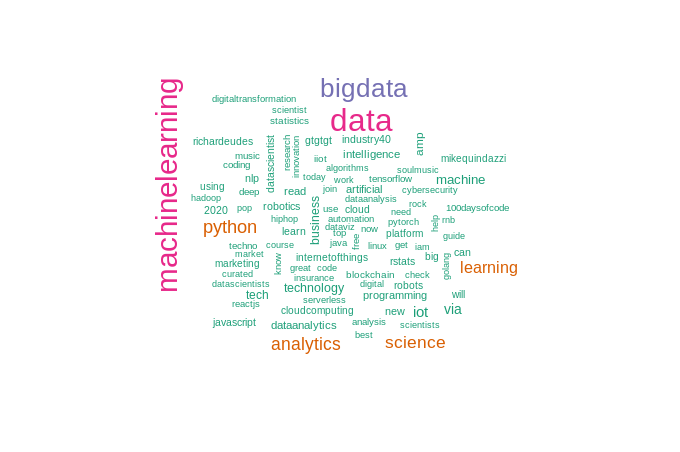
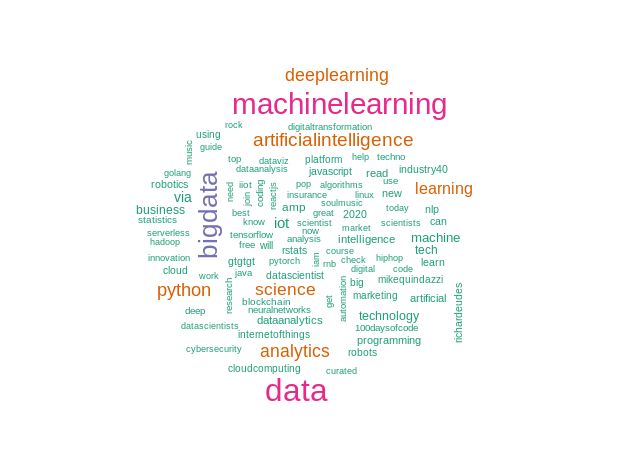
update

Changed region(s): [[0.2145, 0.1549, 0.7661, 0.8673]]

diff --git a/docs/index.html b/docs/index.html
@@ -237,8 +237,8 @@ E após, seguirmos, todas as etapas, chegamos a última, e se tudo estiver ocorr
 <a class="sourceLine" id="cb3-6" data-line-number="6">  <span class="dt">lang =</span> <span class="st">&quot;en&quot;</span></a>
 <a class="sourceLine" id="cb3-7" data-line-number="7">)</a></code></pre></div>
 <p>E essas são as primeiras linhas da busca:</p>
-<div id="htmlwidget-85cf5323f5ff75177d7d" style="width:100%;height:auto;" class="datatables html-widget"></div>
-<script type="application/json" data-for="htmlwidget-85cf5323f5ff75177d7d">{"x":{"filter":"none","extensions":["Scroller"],"data":[["572383090","572383090","1054321970442059776","1054321970442059776","1054321970442059776","1054321970442059776"],["1234189787126386688","1233298568875610112","1231989167279812611","1234014514703667200","1230991843585929216","1232862925955702785"],["2020-03-01T18:52:30Z","2020-02-28T07:51:07Z","2020-02-24T17:08:01Z","2020-03-01T07:16:01Z","2020-02-21T23:05:00Z","2020-02-27T03:00:01Z"],["norcalbiostat","norcalbiostat","techsocialnet","techsocialnet","techsocialnet","techsocialnet"],["The #DataScience initiative is participating in #GivingDay for #ASADataFest20 https://t.co/P76JRlYWb0","So thankful to receive a conference grant from @RConsortium to help put on #ASADataFest20 @ChicoState !! Food! Prizes! Swag!\nThink you can help feed &amp; caffeinate students too? Giving day is next Wednesday -https://t.co/PXAv1wdhH9 Every $5-10 helps! #DataScience","Why to always take a questioning approach as an analyst...\n\nData Analytics: Common Pitfalls of Not Asking Enough Questions and What Questions You Should be Asking | techsocialnetwork \n\nhttps://t.co/unqyg43YHt\n\n  #analytics #technology #data #datascience #bigdata #deeplearning https://t.co/fmFXiDdT8C","Why to always take a questioning approach as an analyst...\n\nData Analytics: Common Pitfalls of Not Asking Enough Questions and What Questions You Should be Asking | techsocialnetwork \n\nhttps://t.co/unqyg43YHt\n\n  #analytics #technology #data #datascience #bigdata #deeplearning https://t.co/BcYTuCNHmx","Is Data the New Oil? | techsocialnetwork \n\nCheck out our latest article and please share with your friends.\n\nhttps://t.co/YDOokF5Xds\n\n#data #bigdata #programming #technology #ai #automation #datascience #tech #machinelearning #artificialintelligence #coding","10 Ways AI And Machine Learning Are Improving Endpoint Security | techsocialnetwork - read more,,,,,,,,,\n\nhttps://t.co/cOaL6ytcG2\n\n #coding #machinelearning #computerscience #programming #developer #coder #python #programmer #technology #artificialintelligence #datascience"],["Twitter for Android","Twitter Web App","eClincher","eClincher","eClincher","eClincher"],[77,265,276,276,257,273],[null,null,null,null,null,null],[null,null,null,null,null,null],[null,null,null,null,null,null],[true,false,false,false,false,false],[false,false,false,false,false,false],[0,1,3,0,5,1],[0,0,1,3,10,1],[null,null,null,null,null,null],[null,null,null,null,null,null],[["DataScience","GivingDay","ASADataFest20"],["ASADataFest20","DataScience"],["analytics","technology","data","datascience","bigdata","deeplearning"],["analytics","technology","data","datascience","bigdata","deeplearning"],["data","bigdata","programming","technology","ai","automation","datascience","tech","machinelearning","artificialintelligence","coding"],["coding","machinelearning","computerscience","programming","developer","coder","python","programmer","technology","artificialintelligence","datascience"]],[null,null,null,null,null,null],["twitter.com/ChicoState/sta…","app.mobilecause.com/vf/chicodatafe…","techsocialnetwork.co.uk/2019/11/20/dat…","techsocialnetwork.co.uk/2019/11/20/dat…","techsocialnetwork.co.uk/2019/09/01/is-…","techsocialnetwork.co.uk/2019/10/05/10-…"],["https://t.co/P76JRlYWb0","https://t.co/PXAv1wdhH9","https://t.co/unqyg43YHt","https://t.co/unqyg43YHt","https://t.co/YDOokF5Xds","https://t.co/cOaL6ytcG2"],["https://twitter.com/ChicoState/status/1234183526964244480","https://app.mobilecause.com/vf/chicodatafest","https://techsocialnetwork.co.uk/2019/11/20/data-analytics-common-pitfalls-of-not-asking-enough-questions-and-what-questions-you-should-be-asking/","https://techsocialnetwork.co.uk/2019/11/20/data-analytics-common-pitfalls-of-not-asking-enough-questions-and-what-questions-you-should-be-asking/","https://techsocialnetwork.co.uk/2019/09/01/is-data-the-new-oil/","https://techsocialnetwork.co.uk/2019/10/05/10-ways-ai-and-machine-learning-are-improving-endpoint-security/"],[null,null,"http://pbs.twimg.com/media/ERjnnmQW4AYEQ87.jpg","http://pbs.twimg.com/media/ESAZqVSXkAEce0Z.jpg",null,null],[null,null,"https://t.co/fmFXiDdT8C","https://t.co/BcYTuCNHmx",null,null],[null,null,"https://twitter.com/techsocialnet/status/1231989167279812611/photo/1","https://twitter.com/techsocialnet/status/1234014514703667200/photo/1",null,null],[null,null,"photo","photo",null,null],[null,null,"http://pbs.twimg.com/media/ERjnnmQW4AYEQ87.jpg","http://pbs.twimg.com/media/ESAZqVSXkAEce0Z.jpg",null,null],[null,null,"https://t.co/fmFXiDdT8C","https://t.co/BcYTuCNHmx",null,null],[null,null,"https://twitter.com/techsocialnet/status/1231989167279812611/photo/1","https://twitter.com/techsocialnet/status/1234014514703667200/photo/1",null,null],[null,null,null,null,null,null],[null,["3318844765","17068492"],null,null,null,null],[null,["RConsortium","ChicoState"],null,null,null,null],["en","en","en","en","en","en"],["1234183526964244480",null,null,null,null,null],["We need your help on #ChicoStateGivingDay this Wednesday! Just a few dollars goes a long way. Show us how #CatsGiveBack on March 4! https://t.co/0jLyUou9B7 https://t.co/jZDT0Guwtu",null,null,null,null,null],["2020-03-01T18:27:37Z",null,null,null,null,null],["Sprout Social",null,null,null,null,null],[1,null,null,null,null,null],[0,null,null,null,null,null],["17068492",null,null,null,null,null],["ChicoState",null,null,null,null,null],["Chico State",null,null,null,null,null],[21145,null,null,null,null,null],[259,null,null,null,null,null],[13487,null,null,null,null,null],["Chico, CA",null,null,null,null,null],["The official Twitter account of California State University, Chico — home of the Wildcats!",null,null,null,null,null],[true,null,null,null,null,null],[null,null,null,null,null,null],[null,null,null,null,null,null],[null,null,null,null,null,null],[null,null,null,null,null,null],[null,null,null,null,null,null],[null,null,null,null,null,null],[null,null,null,null,null,null],[null,null,null,null,null,null],[null,null,null,null,null,null],[null,null,null,null,null,null],[null,null,null,null,null,null],[null,null,null,null,null,null],[null,null,null,null,null,null],[null,null,null,null,null,null],[null,null,null,null,null,null],[null,null,null,null,null,null],[null,null,null,null,null,null],[null,null,null,null,null,null],[null,null,null,null,null,null],[null,null,null,null,null,null],[null,null,null,null,null,null],[[null,null],[null,null],[null,null],[null,null],[null,null],[null,null]],[[null,null],[null,null],[null,null],[null,null],[null,null],[null,null]],[[null,null,null,null,null,null,null,null],[null,null,null,null,null,null,null,null],[null,null,null,null,null,null,null,null],[null,null,null,null,null,null,null,null],[null,null,null,null,null,null,null,null],[null,null,null,null,null,null,null,null]],["https://twitter.com/norcalbiostat/status/1234189787126386688","https://twitter.com/norcalbiostat/status/1233298568875610112","https://twitter.com/techsocialnet/status/1231989167279812611","https://twitter.com/techsocialnet/status/1234014514703667200","https://twitter.com/techsocialnet/status/1230991843585929216","https://twitter.com/techsocialnet/status/1232862925955702785"],["Robin Donatello","Robin Donatello","techsocialnetwork","techsocialnetwork","techsocialnetwork","techsocialnetwork"],["Chico, CA","Chico, CA","Bingley, England","Bingley, England","Bingley, England","Bingley, England"],["Teacher, Biostatistician, Consultant, Responsible Pit Bull Owner, Gamer, Gardener, Motorcycle Rider","Teacher, Biostatistician, Consultant, Responsible Pit Bull Owner, Gamer, Gardener, Motorcycle Rider","https://t.co/8HP7lequCo - Check out more on our site - Tech, AI, Machine Learning, Coding and more. \n\n#VisitUs\n\n#techsocialnetwork #RememberToLive #VisitUs","https://t.co/8HP7lequCo - Check out more on our site - Tech, AI, Machine Learning, Coding and more. \n\n#VisitUs\n\n#techsocialnetwork #RememberToLive #VisitUs","https://t.co/8HP7lequCo - Check out more on our site - Tech, AI, Machine Learning, Coding and more. \n\n#VisitUs\n\n#techsocialnetwork #RememberToLive #VisitUs","https://t.co/8HP7lequCo - Check out more on our site - Tech, AI, Machine Learning, Coding and more. \n\n#VisitUs\n\n#techsocialnetwork #RememberToLive #VisitUs"],[null,null,"https://t.co/2416vnOpzR","https://t.co/2416vnOpzR","https://t.co/2416vnOpzR","https://t.co/2416vnOpzR"],[false,false,false,false,false,false],[135,135,7062,7062,7062,7062],[164,164,7553,7553,7553,7553],[11,11,53,53,53,53],[1180,1180,27417,27417,27417,27417],[1653,1653,24694,24694,24694,24694],["2012-05-06T06:54:34Z","2012-05-06T06:54:34Z","2018-10-22T10:42:00Z","2018-10-22T10:42:00Z","2018-10-22T10:42:00Z","2018-10-22T10:42:00Z"],[false,false,false,false,false,false],[null,null,"https://t.co/2416vnOpzR","https://t.co/2416vnOpzR","https://t.co/2416vnOpzR","https://t.co/2416vnOpzR"],[null,null,"http://www.techsocialnetwork.co.uk","http://www.techsocialnetwork.co.uk","http://www.techsocialnetwork.co.uk","http://www.techsocialnetwork.co.uk"],[null,null,null,null,null,null],["https://pbs.twimg.com/profile_banners/572383090/1559865872","https://pbs.twimg.com/profile_banners/572383090/1559865872","https://pbs.twimg.com/profile_banners/1054321970442059776/1551817508","https://pbs.twimg.com/profile_banners/1054321970442059776/1551817508","https://pbs.twimg.com/profile_banners/1054321970442059776/1551817508","https://pbs.twimg.com/profile_banners/1054321970442059776/1551817508"],["http://abs.twimg.com/images/themes/theme9/bg.gif","http://abs.twimg.com/images/themes/theme9/bg.gif",null,null,null,null],["http://pbs.twimg.com/profile_images/1128175991166099456/hlp19w-E_normal.png","http://pbs.twimg.com/profile_images/1128175991166099456/hlp19w-E_normal.png","http://pbs.twimg.com/profile_images/1066400489695297536/sQ_Mnec2_normal.jpg","http://pbs.twimg.com/profile_images/1066400489695297536/sQ_Mnec2_normal.jpg","http://pbs.twimg.com/profile_images/1066400489695297536/sQ_Mnec2_normal.jpg","http://pbs.twimg.com/profile_images/1066400489695297536/sQ_Mnec2_normal.jpg"]],"container":"<table class=\"display\">\n  <thead>\n    <tr>\n      <th>user_id<\/th>\n      <th>status_id<\/th>\n      <th>created_at<\/th>\n      <th>screen_name<\/th>\n      <th>text<\/th>\n      <th>source<\/th>\n      <th>display_text_width<\/th>\n      <th>reply_to_status_id<\/th>\n      <th>reply_to_user_id<\/th>\n      <th>reply_to_screen_name<\/th>\n      <th>is_quote<\/th>\n      <th>is_retweet<\/th>\n      <th>favorite_count<\/th>\n      <th>retweet_count<\/th>\n      <th>quote_count<\/th>\n      <th>reply_count<\/th>\n      <th>hashtags<\/th>\n      <th>symbols<\/th>\n      <th>urls_url<\/th>\n      <th>urls_t.co<\/th>\n      <th>urls_expanded_url<\/th>\n      <th>media_url<\/th>\n      <th>media_t.co<\/th>\n      <th>media_expanded_url<\/th>\n      <th>media_type<\/th>\n      <th>ext_media_url<\/th>\n      <th>ext_media_t.co<\/th>\n      <th>ext_media_expanded_url<\/th>\n      <th>ext_media_type<\/th>\n      <th>mentions_user_id<\/th>\n      <th>mentions_screen_name<\/th>\n      <th>lang<\/th>\n      <th>quoted_status_id<\/th>\n      <th>quoted_text<\/th>\n      <th>quoted_created_at<\/th>\n      <th>quoted_source<\/th>\n      <th>quoted_favorite_count<\/th>\n      <th>quoted_retweet_count<\/th>\n      <th>quoted_user_id<\/th>\n      <th>quoted_screen_name<\/th>\n      <th>quoted_name<\/th>\n      <th>quoted_followers_count<\/th>\n      <th>quoted_friends_count<\/th>\n      <th>quoted_statuses_count<\/th>\n      <th>quoted_location<\/th>\n      <th>quoted_description<\/th>\n      <th>quoted_verified<\/th>\n      <th>retweet_status_id<\/th>\n      <th>retweet_text<\/th>\n      <th>retweet_created_at<\/th>\n      <th>retweet_source<\/th>\n      <th>retweet_favorite_count<\/th>\n      <th>retweet_retweet_count<\/th>\n      <th>retweet_user_id<\/th>\n      <th>retweet_screen_name<\/th>\n      <th>retweet_name<\/th>\n      <th>retweet_followers_count<\/th>\n      <th>retweet_friends_count<\/th>\n      <th>retweet_statuses_count<\/th>\n      <th>retweet_location<\/th>\n      <th>retweet_description<\/th>\n      <th>retweet_verified<\/th>\n      <th>place_url<\/th>\n      <th>place_name<\/th>\n      <th>place_full_name<\/th>\n      <th>place_type<\/th>\n      <th>country<\/th>\n      <th>country_code<\/th>\n      <th>geo_coords<\/th>\n      <th>coords_coords<\/th>\n      <th>bbox_coords<\/th>\n      <th>status_url<\/th>\n      <th>name<\/th>\n      <th>location<\/th>\n      <th>description<\/th>\n      <th>url<\/th>\n      <th>protected<\/th>\n      <th>followers_count<\/th>\n      <th>friends_count<\/th>\n      <th>listed_count<\/th>\n      <th>statuses_count<\/th>\n      <th>favourites_count<\/th>\n      <th>account_created_at<\/th>\n      <th>verified<\/th>\n      <th>profile_url<\/th>\n      <th>profile_expanded_url<\/th>\n      <th>account_lang<\/th>\n      <th>profile_banner_url<\/th>\n      <th>profile_background_url<\/th>\n      <th>profile_image_url<\/th>\n    <\/tr>\n  <\/thead>\n<\/table>","options":{"language":{"url":"//cdn.datatables.net/plug-ins/1.10.11/i18n/Portuguese-Brasil.json"},"pageLength":20,"dom":"t","scrollY":290,"scrollX":true,"scroller":true,"columnDefs":[{"className":"dt-right","targets":[6,12,13,14,15,36,37,41,42,43,51,52,56,57,58,77,78,79,80,81]}],"order":[],"autoWidth":false,"orderClasses":false,"lengthMenu":[10,20,25,50,100]}},"evals":[],"jsHooks":[]}</script>
+<div id="htmlwidget-bfc31dab32cd83f00877" style="width:100%;height:auto;" class="datatables html-widget"></div>
+<script type="application/json" data-for="htmlwidget-bfc31dab32cd83f00877">{"x":{"filter":"none","extensions":["Scroller"],"data":[["572383090","572383090","1054321970442059776","1054321970442059776","1054321970442059776","1054321970442059776"],["1234189787126386688","1233298568875610112","1231989167279812611","1234014514703667200","1230991843585929216","1232862925955702785"],["2020-03-01T18:52:30Z","2020-02-28T07:51:07Z","2020-02-24T17:08:01Z","2020-03-01T07:16:01Z","2020-02-21T23:05:00Z","2020-02-27T03:00:01Z"],["norcalbiostat","norcalbiostat","techsocialnet","techsocialnet","techsocialnet","techsocialnet"],["The #DataScience initiative is participating in #GivingDay for #ASADataFest20 https://t.co/P76JRlYWb0","So thankful to receive a conference grant from @RConsortium to help put on #ASADataFest20 @ChicoState !! Food! Prizes! Swag!\nThink you can help feed &amp; caffeinate students too? Giving day is next Wednesday -https://t.co/PXAv1wdhH9 Every $5-10 helps! #DataScience","Why to always take a questioning approach as an analyst...\n\nData Analytics: Common Pitfalls of Not Asking Enough Questions and What Questions You Should be Asking | techsocialnetwork \n\nhttps://t.co/unqyg43YHt\n\n  #analytics #technology #data #datascience #bigdata #deeplearning https://t.co/fmFXiDdT8C","Why to always take a questioning approach as an analyst...\n\nData Analytics: Common Pitfalls of Not Asking Enough Questions and What Questions You Should be Asking | techsocialnetwork \n\nhttps://t.co/unqyg43YHt\n\n  #analytics #technology #data #datascience #bigdata #deeplearning https://t.co/BcYTuCNHmx","Is Data the New Oil? | techsocialnetwork \n\nCheck out our latest article and please share with your friends.\n\nhttps://t.co/YDOokF5Xds\n\n#data #bigdata #programming #technology #ai #automation #datascience #tech #machinelearning #artificialintelligence #coding","10 Ways AI And Machine Learning Are Improving Endpoint Security | techsocialnetwork - read more,,,,,,,,,\n\nhttps://t.co/cOaL6ytcG2\n\n #coding #machinelearning #computerscience #programming #developer #coder #python #programmer #technology #artificialintelligence #datascience"],["Twitter for Android","Twitter Web App","eClincher","eClincher","eClincher","eClincher"],[77,265,276,276,257,273],[null,null,null,null,null,null],[null,null,null,null,null,null],[null,null,null,null,null,null],[true,false,false,false,false,false],[false,false,false,false,false,false],[0,1,3,0,5,1],[0,0,1,3,10,1],[null,null,null,null,null,null],[null,null,null,null,null,null],[["DataScience","GivingDay","ASADataFest20"],["ASADataFest20","DataScience"],["analytics","technology","data","datascience","bigdata","deeplearning"],["analytics","technology","data","datascience","bigdata","deeplearning"],["data","bigdata","programming","technology","ai","automation","datascience","tech","machinelearning","artificialintelligence","coding"],["coding","machinelearning","computerscience","programming","developer","coder","python","programmer","technology","artificialintelligence","datascience"]],[null,null,null,null,null,null],["twitter.com/ChicoState/sta…","app.mobilecause.com/vf/chicodatafe…","techsocialnetwork.co.uk/2019/11/20/dat…","techsocialnetwork.co.uk/2019/11/20/dat…","techsocialnetwork.co.uk/2019/09/01/is-…","techsocialnetwork.co.uk/2019/10/05/10-…"],["https://t.co/P76JRlYWb0","https://t.co/PXAv1wdhH9","https://t.co/unqyg43YHt","https://t.co/unqyg43YHt","https://t.co/YDOokF5Xds","https://t.co/cOaL6ytcG2"],["https://twitter.com/ChicoState/status/1234183526964244480","https://app.mobilecause.com/vf/chicodatafest","https://techsocialnetwork.co.uk/2019/11/20/data-analytics-common-pitfalls-of-not-asking-enough-questions-and-what-questions-you-should-be-asking/","https://techsocialnetwork.co.uk/2019/11/20/data-analytics-common-pitfalls-of-not-asking-enough-questions-and-what-questions-you-should-be-asking/","https://techsocialnetwork.co.uk/2019/09/01/is-data-the-new-oil/","https://techsocialnetwork.co.uk/2019/10/05/10-ways-ai-and-machine-learning-are-improving-endpoint-security/"],[null,null,"http://pbs.twimg.com/media/ERjnnmQW4AYEQ87.jpg","http://pbs.twimg.com/media/ESAZqVSXkAEce0Z.jpg",null,null],[null,null,"https://t.co/fmFXiDdT8C","https://t.co/BcYTuCNHmx",null,null],[null,null,"https://twitter.com/techsocialnet/status/1231989167279812611/photo/1","https://twitter.com/techsocialnet/status/1234014514703667200/photo/1",null,null],[null,null,"photo","photo",null,null],[null,null,"http://pbs.twimg.com/media/ERjnnmQW4AYEQ87.jpg","http://pbs.twimg.com/media/ESAZqVSXkAEce0Z.jpg",null,null],[null,null,"https://t.co/fmFXiDdT8C","https://t.co/BcYTuCNHmx",null,null],[null,null,"https://twitter.com/techsocialnet/status/1231989167279812611/photo/1","https://twitter.com/techsocialnet/status/1234014514703667200/photo/1",null,null],[null,null,null,null,null,null],[null,["3318844765","17068492"],null,null,null,null],[null,["RConsortium","ChicoState"],null,null,null,null],["en","en","en","en","en","en"],["1234183526964244480",null,null,null,null,null],["We need your help on #ChicoStateGivingDay this Wednesday! Just a few dollars goes a long way. Show us how #CatsGiveBack on March 4! https://t.co/0jLyUou9B7 https://t.co/jZDT0Guwtu",null,null,null,null,null],["2020-03-01T18:27:37Z",null,null,null,null,null],["Sprout Social",null,null,null,null,null],[1,null,null,null,null,null],[0,null,null,null,null,null],["17068492",null,null,null,null,null],["ChicoState",null,null,null,null,null],["Chico State",null,null,null,null,null],[21145,null,null,null,null,null],[259,null,null,null,null,null],[13487,null,null,null,null,null],["Chico, CA",null,null,null,null,null],["The official Twitter account of California State University, Chico — home of the Wildcats!",null,null,null,null,null],[true,null,null,null,null,null],[null,null,null,null,null,null],[null,null,null,null,null,null],[null,null,null,null,null,null],[null,null,null,null,null,null],[null,null,null,null,null,null],[null,null,null,null,null,null],[null,null,null,null,null,null],[null,null,null,null,null,null],[null,null,null,null,null,null],[null,null,null,null,null,null],[null,null,null,null,null,null],[null,null,null,null,null,null],[null,null,null,null,null,null],[null,null,null,null,null,null],[null,null,null,null,null,null],[null,null,null,null,null,null],[null,null,null,null,null,null],[null,null,null,null,null,null],[null,null,null,null,null,null],[null,null,null,null,null,null],[null,null,null,null,null,null],[[null,null],[null,null],[null,null],[null,null],[null,null],[null,null]],[[null,null],[null,null],[null,null],[null,null],[null,null],[null,null]],[[null,null,null,null,null,null,null,null],[null,null,null,null,null,null,null,null],[null,null,null,null,null,null,null,null],[null,null,null,null,null,null,null,null],[null,null,null,null,null,null,null,null],[null,null,null,null,null,null,null,null]],["https://twitter.com/norcalbiostat/status/1234189787126386688","https://twitter.com/norcalbiostat/status/1233298568875610112","https://twitter.com/techsocialnet/status/1231989167279812611","https://twitter.com/techsocialnet/status/1234014514703667200","https://twitter.com/techsocialnet/status/1230991843585929216","https://twitter.com/techsocialnet/status/1232862925955702785"],["Robin Donatello","Robin Donatello","techsocialnetwork","techsocialnetwork","techsocialnetwork","techsocialnetwork"],["Chico, CA","Chico, CA","Bingley, England","Bingley, England","Bingley, England","Bingley, England"],["Teacher, Biostatistician, Consultant, Responsible Pit Bull Owner, Gamer, Gardener, Motorcycle Rider","Teacher, Biostatistician, Consultant, Responsible Pit Bull Owner, Gamer, Gardener, Motorcycle Rider","https://t.co/8HP7lequCo - Check out more on our site - Tech, AI, Machine Learning, Coding and more. \n\n#VisitUs\n\n#techsocialnetwork #RememberToLive #VisitUs","https://t.co/8HP7lequCo - Check out more on our site - Tech, AI, Machine Learning, Coding and more. \n\n#VisitUs\n\n#techsocialnetwork #RememberToLive #VisitUs","https://t.co/8HP7lequCo - Check out more on our site - Tech, AI, Machine Learning, Coding and more. \n\n#VisitUs\n\n#techsocialnetwork #RememberToLive #VisitUs","https://t.co/8HP7lequCo - Check out more on our site - Tech, AI, Machine Learning, Coding and more. \n\n#VisitUs\n\n#techsocialnetwork #RememberToLive #VisitUs"],[null,null,"https://t.co/2416vnOpzR","https://t.co/2416vnOpzR","https://t.co/2416vnOpzR","https://t.co/2416vnOpzR"],[false,false,false,false,false,false],[135,135,7062,7062,7062,7062],[164,164,7553,7553,7553,7553],[11,11,53,53,53,53],[1180,1180,27417,27417,27417,27417],[1653,1653,24694,24694,24694,24694],["2012-05-06T06:54:34Z","2012-05-06T06:54:34Z","2018-10-22T10:42:00Z","2018-10-22T10:42:00Z","2018-10-22T10:42:00Z","2018-10-22T10:42:00Z"],[false,false,false,false,false,false],[null,null,"https://t.co/2416vnOpzR","https://t.co/2416vnOpzR","https://t.co/2416vnOpzR","https://t.co/2416vnOpzR"],[null,null,"http://www.techsocialnetwork.co.uk","http://www.techsocialnetwork.co.uk","http://www.techsocialnetwork.co.uk","http://www.techsocialnetwork.co.uk"],[null,null,null,null,null,null],["https://pbs.twimg.com/profile_banners/572383090/1559865872","https://pbs.twimg.com/profile_banners/572383090/1559865872","https://pbs.twimg.com/profile_banners/1054321970442059776/1551817508","https://pbs.twimg.com/profile_banners/1054321970442059776/1551817508","https://pbs.twimg.com/profile_banners/1054321970442059776/1551817508","https://pbs.twimg.com/profile_banners/1054321970442059776/1551817508"],["http://abs.twimg.com/images/themes/theme9/bg.gif","http://abs.twimg.com/images/themes/theme9/bg.gif",null,null,null,null],["http://pbs.twimg.com/profile_images/1128175991166099456/hlp19w-E_normal.png","http://pbs.twimg.com/profile_images/1128175991166099456/hlp19w-E_normal.png","http://pbs.twimg.com/profile_images/1066400489695297536/sQ_Mnec2_normal.jpg","http://pbs.twimg.com/profile_images/1066400489695297536/sQ_Mnec2_normal.jpg","http://pbs.twimg.com/profile_images/1066400489695297536/sQ_Mnec2_normal.jpg","http://pbs.twimg.com/profile_images/1066400489695297536/sQ_Mnec2_normal.jpg"]],"container":"<table class=\"display\">\n  <thead>\n    <tr>\n      <th>user_id<\/th>\n      <th>status_id<\/th>\n      <th>created_at<\/th>\n      <th>screen_name<\/th>\n      <th>text<\/th>\n      <th>source<\/th>\n      <th>display_text_width<\/th>\n      <th>reply_to_status_id<\/th>\n      <th>reply_to_user_id<\/th>\n      <th>reply_to_screen_name<\/th>\n      <th>is_quote<\/th>\n      <th>is_retweet<\/th>\n      <th>favorite_count<\/th>\n      <th>retweet_count<\/th>\n      <th>quote_count<\/th>\n      <th>reply_count<\/th>\n      <th>hashtags<\/th>\n      <th>symbols<\/th>\n      <th>urls_url<\/th>\n      <th>urls_t.co<\/th>\n      <th>urls_expanded_url<\/th>\n      <th>media_url<\/th>\n      <th>media_t.co<\/th>\n      <th>media_expanded_url<\/th>\n      <th>media_type<\/th>\n      <th>ext_media_url<\/th>\n      <th>ext_media_t.co<\/th>\n      <th>ext_media_expanded_url<\/th>\n      <th>ext_media_type<\/th>\n      <th>mentions_user_id<\/th>\n      <th>mentions_screen_name<\/th>\n      <th>lang<\/th>\n      <th>quoted_status_id<\/th>\n      <th>quoted_text<\/th>\n      <th>quoted_created_at<\/th>\n      <th>quoted_source<\/th>\n      <th>quoted_favorite_count<\/th>\n      <th>quoted_retweet_count<\/th>\n      <th>quoted_user_id<\/th>\n      <th>quoted_screen_name<\/th>\n      <th>quoted_name<\/th>\n      <th>quoted_followers_count<\/th>\n      <th>quoted_friends_count<\/th>\n      <th>quoted_statuses_count<\/th>\n      <th>quoted_location<\/th>\n      <th>quoted_description<\/th>\n      <th>quoted_verified<\/th>\n      <th>retweet_status_id<\/th>\n      <th>retweet_text<\/th>\n      <th>retweet_created_at<\/th>\n      <th>retweet_source<\/th>\n      <th>retweet_favorite_count<\/th>\n      <th>retweet_retweet_count<\/th>\n      <th>retweet_user_id<\/th>\n      <th>retweet_screen_name<\/th>\n      <th>retweet_name<\/th>\n      <th>retweet_followers_count<\/th>\n      <th>retweet_friends_count<\/th>\n      <th>retweet_statuses_count<\/th>\n      <th>retweet_location<\/th>\n      <th>retweet_description<\/th>\n      <th>retweet_verified<\/th>\n      <th>place_url<\/th>\n      <th>place_name<\/th>\n      <th>place_full_name<\/th>\n      <th>place_type<\/th>\n      <th>country<\/th>\n      <th>country_code<\/th>\n      <th>geo_coords<\/th>\n      <th>coords_coords<\/th>\n      <th>bbox_coords<\/th>\n      <th>status_url<\/th>\n      <th>name<\/th>\n      <th>location<\/th>\n      <th>description<\/th>\n      <th>url<\/th>\n      <th>protected<\/th>\n      <th>followers_count<\/th>\n      <th>friends_count<\/th>\n      <th>listed_count<\/th>\n      <th>statuses_count<\/th>\n      <th>favourites_count<\/th>\n      <th>account_created_at<\/th>\n      <th>verified<\/th>\n      <th>profile_url<\/th>\n      <th>profile_expanded_url<\/th>\n      <th>account_lang<\/th>\n      <th>profile_banner_url<\/th>\n      <th>profile_background_url<\/th>\n      <th>profile_image_url<\/th>\n    <\/tr>\n  <\/thead>\n<\/table>","options":{"language":{"url":"//cdn.datatables.net/plug-ins/1.10.11/i18n/Portuguese-Brasil.json"},"pageLength":20,"dom":"t","scrollY":290,"scrollX":true,"scroller":true,"columnDefs":[{"className":"dt-right","targets":[6,12,13,14,15,36,37,41,42,43,51,52,56,57,58,77,78,79,80,81]}],"order":[],"autoWidth":false,"orderClasses":false,"lengthMenu":[10,20,25,50,100]}},"evals":[],"jsHooks":[]}</script>
 <p>Visualizando a frequência de tweets utilizando #datascience, no intervalo de 1 hora:</p>
 <div class="sourceCode" id="cb4"><pre class="sourceCode r"><code class="sourceCode r"><a class="sourceLine" id="cb4-1" data-line-number="1"><span class="co"># Gerando um gráfico com a frequencia dos tweets no intervalo de 1 hora</span></a>
 <a class="sourceLine" id="cb4-2" data-line-number="2">datascience_tweet <span class="op">%&gt;%</span><span class="st"> </span></a>
@@ -306,7 +306,7 @@ E após, seguirmos, todas as etapas, chegamos a última, e se tudo estiver ocorr
 <a class="sourceLine" id="cb9-7" data-line-number="7"><span class="co"># Gerando um gráfico da frequência</span></a>
 <a class="sourceLine" id="cb9-8" data-line-number="8">df_datascience <span class="op">%&gt;%</span></a>
 <a class="sourceLine" id="cb9-9" data-line-number="9"><span class="st">  </span><span class="kw">filter</span>(<span class="op">!</span>word <span class="op">%in%</span><span class="st"> </span><span class="kw">c</span>(<span class="st">&quot;datascience&quot;</span>, <span class="st">&quot;via&quot;</span>)) <span class="op">%&gt;%</span><span class="st"> </span></a>
-<a class="sourceLine" id="cb9-10" data-line-number="10"><span class="st">  </span><span class="kw">subset</span>(freq <span class="op">&gt;</span><span class="st"> </span><span class="dv">250</span>) <span class="op">%&gt;%</span><span class="st"> </span></a>
+<a class="sourceLine" id="cb9-10" data-line-number="10"><span class="st">  </span><span class="kw">subset</span>(freq <span class="op">&gt;</span><span class="st"> </span><span class="dv">450</span>) <span class="op">%&gt;%</span><span class="st"> </span></a>
 <a class="sourceLine" id="cb9-11" data-line-number="11"><span class="st">  </span><span class="kw">ggplot</span>(<span class="kw">aes</span>(<span class="dt">x =</span> <span class="kw">reorder</span>(word, freq),</a>
 <a class="sourceLine" id="cb9-12" data-line-number="12">             <span class="dt">y =</span> freq)) <span class="op">+</span></a>
 <a class="sourceLine" id="cb9-13" data-line-number="13"><span class="st">  </span><span class="kw">geom_bar</span>(<span class="dt">stat =</span> <span class="st">&quot;identity&quot;</span>, <span class="dt">fill=</span><span class="st">&#39;#0c6cad&#39;</span>, <span class="dt">color=</span><span class="st">&quot;#075284&quot;</span>) <span class="op">+</span></a>
@@ -314,6 +314,8 @@ E após, seguirmos, todas as etapas, chegamos a última, e se tudo estiver ocorr
 <a class="sourceLine" id="cb9-15" data-line-number="15"><span class="st">  </span><span class="kw">ggtitle</span>(<span class="st">&quot;Termos relacionados a Data Science mais frequentes no Twitter&quot;</span>) <span class="op">+</span></a>
 <a class="sourceLine" id="cb9-16" data-line-number="16"><span class="st">  </span><span class="kw">labs</span>(<span class="dt">y =</span> <span class="st">&quot;Frequência&quot;, x = &quot;</span>Termos<span class="st">&quot;) +</span></a>
 <a class="sourceLine" id="cb9-17" data-line-number="17"><span class="st">  coord_flip()</span></a></code></pre></div>
+<p><img src="_bookdown_files/bookdown_files/figure-html/freq.png" /></p>
+<p><img src="_bookdown_files/bookdown_files/figure-html/nuvem2.png" /></p>
 
 </div>
 </div>
